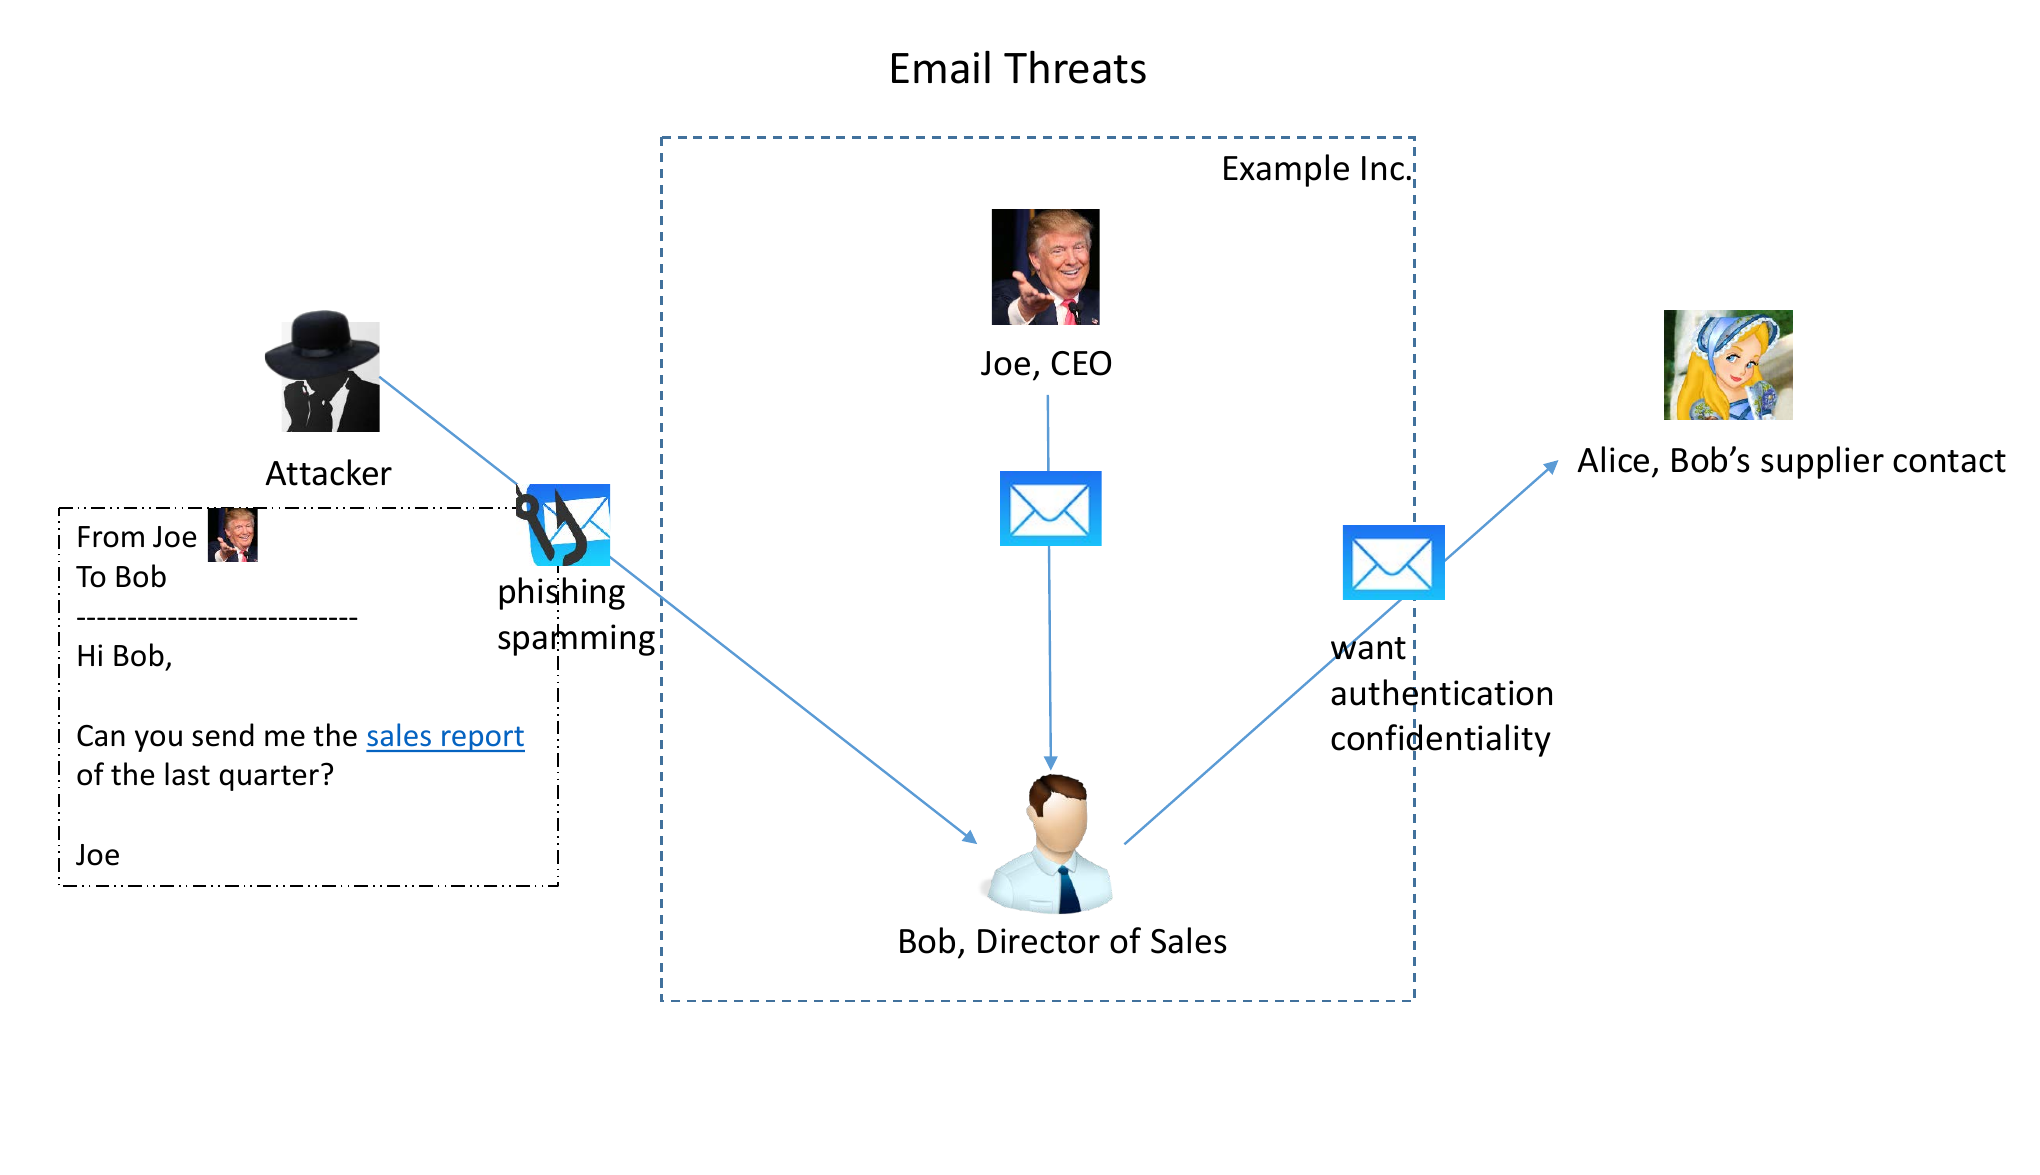
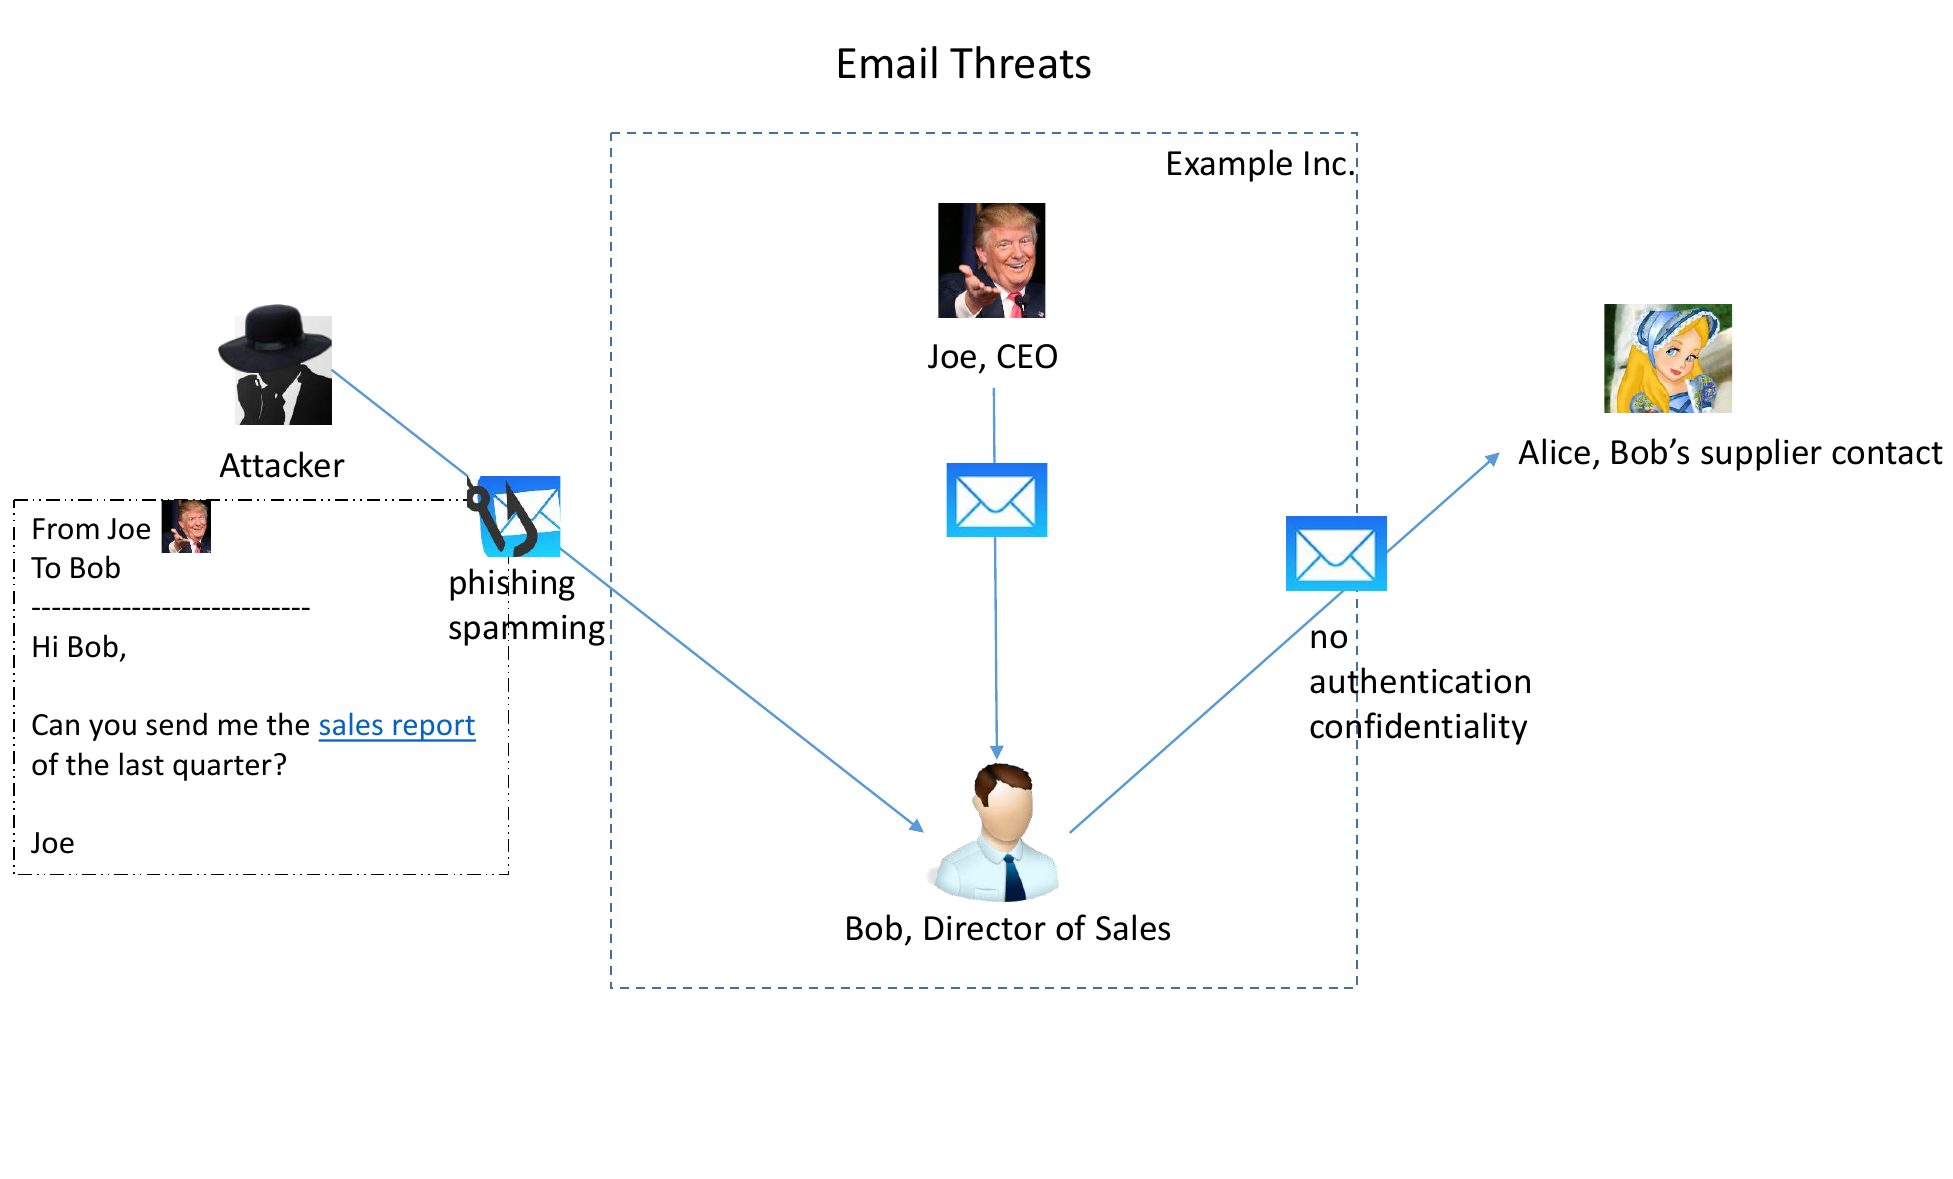
Update threats to no authentication and confidentiality.

diff --git a/index.html b/index.html
@@ -13,7 +13,7 @@ date:   2017-01-17 18:06:33 -0800
 
   <ul>
     <li>Phishing/spamming: malicious emails from attackers, which look like normal business emails, attempt to steal your information or control your computer.
-    <li>Want authentication and confidentiality for authentic business emails.
+    <li>No authentication or confidentiality for authentic business emails.
   </ul>
 
 </div>
@@ -24,7 +24,7 @@ date:   2017-01-17 18:06:33 -0800
       width="100%" alt="Secregen stops them for you"/>
 
 <ul>
-  <li><bold>Sign</bold>: similar to sign a contract or letter, use your digital pen to sign your email to confirm that it is you who send the letter, not someone else.
+  <li><bold>Sign</bold>: similar to signing a contract or letter on paper, use your digital pen to sign your email to confirm that it is you who send the letter, not someone else.
   <li><bold>Encrypt</bold>: make your email secret so that only intended recipients can decrypt and read it.
 </ul>
 </div>
@@ -35,9 +35,9 @@ date:   2017-01-17 18:06:33 -0800
       width="100%" alt="System Setup"/>
 
 <ul>
-  <li>Use the cloud service; no setup tasks.
+  <li>Use the cloud service; no setup tasks.</li>
   <li>Or your administrator sets up the system easily on premises.</li>
-  <li>No end user configuration in either case.
+  <li>No end user configuration in either case.</li>
 </ul>
 </div>
 

diff --git a/product.html b/product.html
@@ -13,7 +13,7 @@ permalink: /product/
 
   <ul>
     <li>Phishing/spamming: malicious emails from attackers, which look like normal business emails, attempt to steal your information or control your computer.
-    <li>Want authentication and confidentiality for authentic business emails.
+    <li>No authentication or confidentiality for authentic business emails.
   </ul>
 
 </div>
@@ -24,7 +24,7 @@ permalink: /product/
       width="100%" alt="Secregen stops them for you"/>
 
 <ul>
-  <li><bold>Sign</bold>: similar to sign a contract or letter, use your digital pen to sign your email to confirm that it is you who send the letter, not someone else.
+  <li><bold>Sign</bold>: similar to signing a contract or letter on paper, use your digital pen to sign your email to confirm that it is you who send the letter, not someone else.
   <li><bold>Encrypt</bold>: make your email secret so that only intended recipients can decrypt and read it.
 </ul>
 </div>
@@ -35,8 +35,8 @@ permalink: /product/
       width="100%" alt="System Setup"/>
 
 <ul>
-  <li>Use the cloud service; no setup tasks.
+  <li>Use the cloud service; no setup tasks.</li>
   <li>Or your administrator sets up the system easily on premises.</li>
-  <li>No end user configuration in either case.
+  <li>No end user configuration in either case.</li>
 </ul>
 </div>
